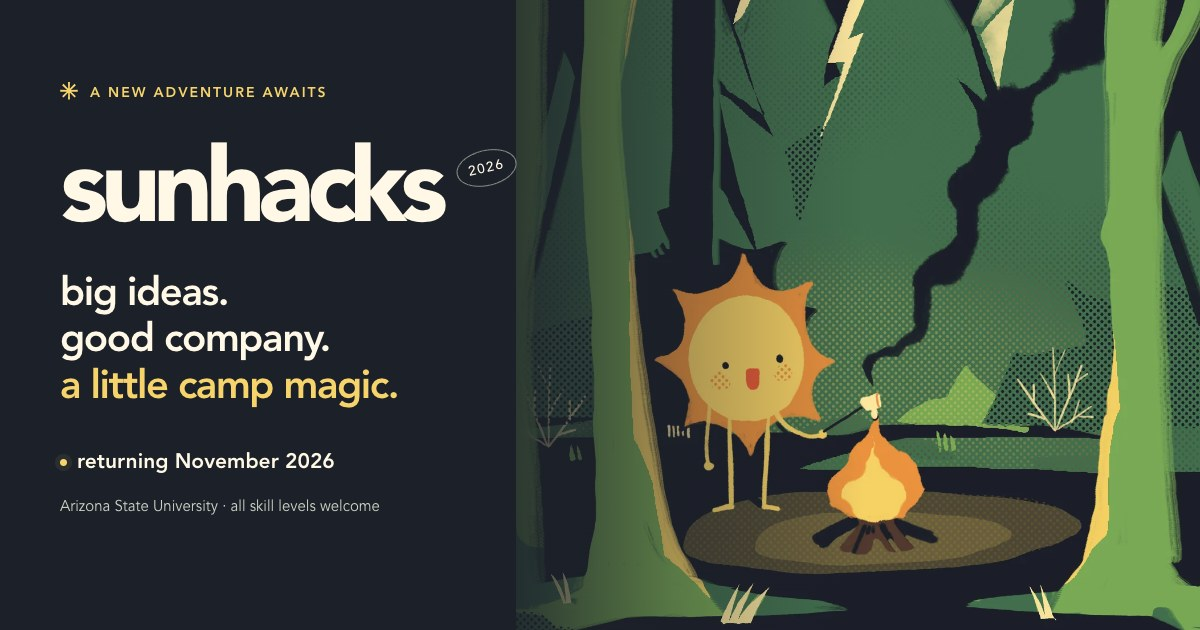
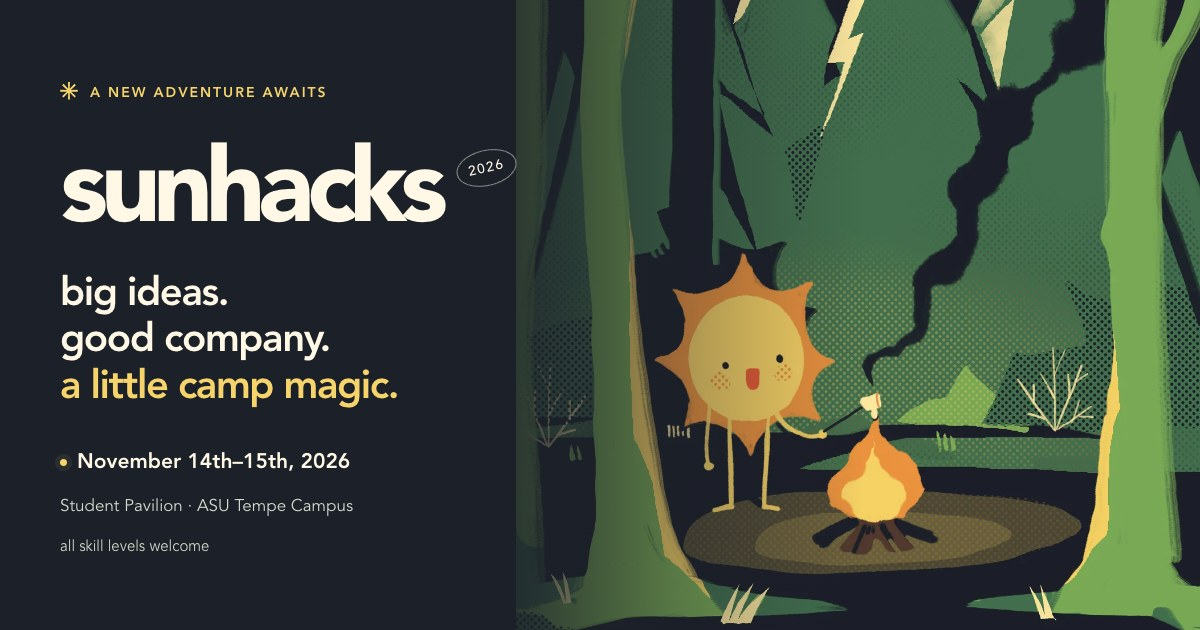
Confirm event dates and venue and restore news thumbnails

Changed region(s): [[0.0617, 0.6937, 0.3083, 0.754], [0.0308, 0.7841, 0.3083, 0.8143], [0.0308, 0.8444, 0.185, 0.8746]]

diff --git a/index.html b/index.html
@@ -7,7 +7,7 @@
     <title>sunhacks 2026 · a new adventure awaits</title>
     <meta
       name="description"
-      content="Your next great idea starts here. sunhacks, Arizona State University's student hackathon, returns November 2026. All skill levels welcome."
+      content="sunhacks returns November 14–15, 2026 at Student Pavilion, ASU Tempe Campus. Join a student hackathon for all skill levels."
     />
     <link rel="canonical" href="https://sunhacks.io/" />
     <link rel="icon" type="image/png" href="assets/images/2026/favicon.png" />
@@ -15,7 +15,7 @@
     <meta itemprop="name" content="sunhacks 2026" />
     <meta
       itemprop="description"
-      content="A new adventure awaits. sunhacks returns November 2026."
+      content="sunhacks returns November 14–15, 2026 at Student Pavilion, ASU Tempe Campus. All skill levels welcome."
     />
     <meta
       itemprop="image"
@@ -29,7 +29,7 @@
     />
     <meta
       property="og:description"
-      content="Pack your curiosity. Arizona State University's student hackathon returns November 2026."
+      content="Pack your curiosity. sunhacks returns November 14–15, 2026 at Student Pavilion, ASU Tempe Campus."
     />
     <meta
       property="og:image"
@@ -39,7 +39,7 @@
     <meta property="og:image:height" content="630" />
     <meta
       property="og:image:alt"
-      content="sunhacks 2026 returns November 2026, with the sun mascot beside a woodland campfire."
+      content="sunhacks, November 14–15, 2026 at Student Pavilion, ASU Tempe Campus, with the sun mascot beside a woodland campfire."
     />
     <meta name="twitter:card" content="summary_large_image" />
     <meta
@@ -48,7 +48,7 @@
     />
     <meta
       name="twitter:description"
-      content="Pack your curiosity. sunhacks returns November 2026. All skill levels welcome."
+      content="Pack your curiosity. sunhacks returns November 14–15, 2026 at Student Pavilion, ASU Tempe Campus."
     />
     <meta
       name="twitter:image"
@@ -56,7 +56,7 @@
     />
     <meta
       name="twitter:image:alt"
-      content="sunhacks 2026 returns November 2026, with the sun mascot beside a woodland campfire."
+      content="sunhacks, November 14–15, 2026 at Student Pavilion, ASU Tempe Campus, with the sun mascot beside a woodland campfire."
     />
 
     <script type="application/ld+json">
@@ -86,6 +86,7 @@
         <nav class="main-nav" aria-label="Main navigation">
           <a href="#about">about</a>
           <a href="#updates">the plan</a>
+          <a href="#news">news</a>
           <a href="#faq">faq</a>
         </nav>
         <a
@@ -126,9 +127,10 @@
               >
             </p>
             <p class="event-date">
-              <span class="date-dot" aria-hidden="true"></span> returning
-              November 2026
+              <span class="date-dot" aria-hidden="true"></span>
+              November 14th–15th, 2026
             </p>
+            <p class="event-location">Student Pavilion · ASU Tempe Campus</p>
             <p class="hero-description">
               Pack your curiosity. Arizona State University’s student hackathon
               is back for another adventure. There’s a place by the campfire for
@@ -146,9 +148,7 @@
                 >contact the team <span aria-hidden="true">↗</span></a
               >
             </div>
-            <p class="hero-note">
-              Dates, venue, registration &amp; schedule coming soon.
-            </p>
+            <p class="hero-note">Registration &amp; schedule coming soon.</p>
           </div>
         </div>
         <div class="container hero-bottom">
@@ -286,20 +286,20 @@
           <dl class="event-status">
             <div class="status-row">
               <dt><span aria-hidden="true">01</span> the dates</dt>
-              <dd>
-                November 2026<small
-                  >Exact dates &amp; venue to be announced</small
-                >
-              </dd>
+              <dd>November 14th–15th, 2026<small>Saturday–Sunday</small></dd>
             </div>
             <div class="status-row">
-              <dt><span aria-hidden="true">02</span> registration</dt>
+              <dt><span aria-hidden="true">02</span> the location</dt>
+              <dd>Student Pavilion<small>ASU Tempe Campus</small></dd>
+            </div>
+            <div class="status-row">
+              <dt><span aria-hidden="true">03</span> registration</dt>
               <dd>
                 opening later<small>Your spot at camp is on the horizon</small>
               </dd>
             </div>
             <div class="status-row">
-              <dt><span aria-hidden="true">03</span> the schedule</dt>
+              <dt><span aria-hidden="true">04</span> the schedule</dt>
               <dd>
                 coming soon<small
                   >More details as the adventure gets closer</small
@@ -310,18 +310,22 @@
         </div>
       </section>
 
-      <section class="news-section section" aria-labelledby="news-title">
+      <section
+        class="news-section section"
+        id="news"
+        aria-labelledby="news-title"
+      >
         <div class="container">
           <div class="section-heading">
             <div>
               <p class="eyebrow section-label">
                 <span>03</span> stories from the trail
               </p>
-              <h2 id="news-title">a few camp memories.</h2>
+              <h2 id="news-title">sunhacks in the news.</h2>
             </div>
             <p>
-              New ideas. Real connections.<br />A little look at where we’ve
-              been.
+              Stories from our community.<br />Read about sunhacks through the
+              years.
             </p>
           </div>
           <div class="news-list" aria-label="Media coverage of sunhacks">
@@ -331,6 +335,15 @@
               target="_blank"
               rel="noopener noreferrer"
             >
+              <img
+                class="news-thumb"
+                src="assets/images/photos/news-2025.webp"
+                width="320"
+                height="213"
+                alt=""
+                loading="lazy"
+                decoding="async"
+              />
               <span class="news-year">2025</span>
               <div class="news-copy">
                 <small>The State Press</small>
@@ -347,6 +360,15 @@
               target="_blank"
               rel="noopener noreferrer"
             >
+              <img
+                class="news-thumb"
+                src="assets/images/photos/news-2024.webp"
+                width="320"
+                height="180"
+                alt=""
+                loading="lazy"
+                decoding="async"
+              />
               <span class="news-year">2024</span>
               <div class="news-copy">
                 <small>ASU Engineering Full Circle</small>
@@ -360,6 +382,15 @@
               target="_blank"
               rel="noopener noreferrer"
             >
+              <img
+                class="news-thumb"
+                src="assets/images/photos/news-2018.webp"
+                width="320"
+                height="213"
+                alt=""
+                loading="lazy"
+                decoding="async"
+              />
               <span class="news-year">2018</span>
               <div class="news-copy">
                 <small>The State Press</small>
@@ -397,11 +428,12 @@
           </div>
           <div class="faq-list">
             <details>
-              <summary>when is the next sunhacks?</summary>
+              <summary>when and where is sunhacks?</summary>
               <div class="faq-answer">
                 <p>
-                  sunhacks will return in November 2026. Exact dates, venue, and
-                  event details will be announced here when they’re finalized.
+                  Join us November 14th–15th, 2026 at Student Pavilion, ASU
+                  Tempe Campus. Registration and the event schedule are coming
+                  soon.
                 </p>
               </div>
             </details>

diff --git a/assets/coming-soon.css b/assets/coming-soon.css
@@ -279,6 +279,12 @@ img {
   box-shadow: 0 0 0 5px #f6d46b12;
   flex: none;
 }
+.event-location {
+  margin-top: 6px;
+  color: #d3d9cc;
+  font-size: 0.86rem;
+  max-width: 420px;
+}
 .hero-description {
   color: #d3d9cc;
   margin-top: 14px;
@@ -566,7 +572,7 @@ img {
 }
 .news-link {
   display: grid;
-  grid-template-columns: 100px 1fr 48px;
+  grid-template-columns: 112px 70px 1fr 48px;
   align-items: center;
   gap: 38px;
   padding-block: 29px;
@@ -576,6 +582,12 @@ img {
 }
 .news-link:hover {
   background: var(--cream);
+}
+.news-thumb {
+  width: 112px;
+  height: 84px;
+  object-fit: cover;
+  border-radius: 4px;
 }
 .news-year {
   font-size: 1.6rem;
@@ -1000,12 +1012,23 @@ img {
     margin-top: 22px;
   }
   .news-link {
-    grid-template-columns: 49px 1fr 27px;
-    gap: 16px;
+    grid-template-columns: 68px 1fr 27px;
+    gap: 8px 14px;
     padding-block: 24px;
   }
+  .news-thumb {
+    width: 68px;
+    height: 68px;
+    grid-row: 1 / 3;
+  }
   .news-year {
-    font-size: 1.15rem;
+    grid-column: 2;
+    grid-row: 2;
+    font-size: 0.8rem;
+  }
+  .news-copy {
+    grid-column: 2;
+    grid-row: 1;
   }
   .news-copy small {
     font-size: 0.59rem;
@@ -1015,6 +1038,8 @@ img {
     line-height: 1.4;
   }
   .news-arrow {
+    grid-column: 3;
+    grid-row: 1 / 3;
     width: 27px;
     height: 27px;
     font-size: 0.85rem;

diff --git a/assets/images/2026/README.md b/assets/images/2026/README.md
@@ -17,4 +17,4 @@ These web assets are optimized copies of artwork in the [2026 design folder](htt
 - The [2026 proposal](https://docs.google.com/presentation/d/1t2bWkpP4Q9vmU0AFHBMivcms_2jqE3A6_9rbq7KCz_E/edit) includes the camp concept. The newer [September social artwork](https://drive.google.com/file/d/1RJJ_-TxmdW56MYiJ0m-_RjhVOL37D_nA/view) and delivered prospectus/stickers establish the woodland theme used here. Site colors are sampled or adapted from that artwork, rather than reusing the 2025 palette.
 - Avenir/Avenir Next are requested as locally installed fonts; Segoe UI and the platform sans-serif are fallbacks. No licensed font files are redistributed.
 - Responsive WebP copies preserve transparency and artwork proportions. The small forest variant reduces mobile downloads. `assets/meta-image.jpg` is a 1200 × 630 rendering of the themed site hero for social sharing.
-- Event facts remain at the existing branch's confirmed level: November 2026, with exact dates, venue, registration, and schedule pending.
+- Confirmed event details: November 14–15, 2026 at Student Pavilion, ASU Tempe Campus. Registration and the schedule remain pending.

diff --git a/assets/images/photos/README.md b/assets/images/photos/README.md
@@ -1,0 +1,11 @@
+# Website photography and news thumbnails
+
+`showcase.webp` is a resized WebP copy of the existing `showcase.jpg` event photograph.
+
+The news thumbnails preserve the images previously used by this site's article links. They are resized local WebP copies for faster loading, with no visual edits. Original imagery belongs to the respective publishers.
+
+| Thumbnail        | Existing source                                                                                                                     |
+| ---------------- | ----------------------------------------------------------------------------------------------------------------------------------- |
+| `news-2025.webp` | [The State Press illustration](https://snworksceo.imgix.net/asp/e0025898-8600-416e-a2d6-6b3d99792425.sized-1000x1000.png?w=320)     |
+| `news-2024.webp` | [ASU Engineering event photo](https://news.engineering.asu.edu/wp-content/uploads/2024/10/sunhacks-fall2024-2286-editv2.jpg)        |
+| `news-2018.webp` | [The State Press organizers photo](https://snworksceo.imgix.net/asp/5874c778-cd66-4092-9a85-32889c8ec888.sized-1000x1000.jpg?w=320) |

diff --git a/README.md b/README.md
@@ -1,6 +1,6 @@
 # sunhacks website
 
-Static site for [sunhacks.io](https://sunhacks.io). The `2026-dev` version announces the November 2026 event with this year's camp theme.
+Static site for [sunhacks.io](https://sunhacks.io). The `2026-dev` version announces the November 14–15, 2026 event at Student Pavilion, ASU Tempe Campus, with this year's camp theme.
 
 ## Local preview
 
